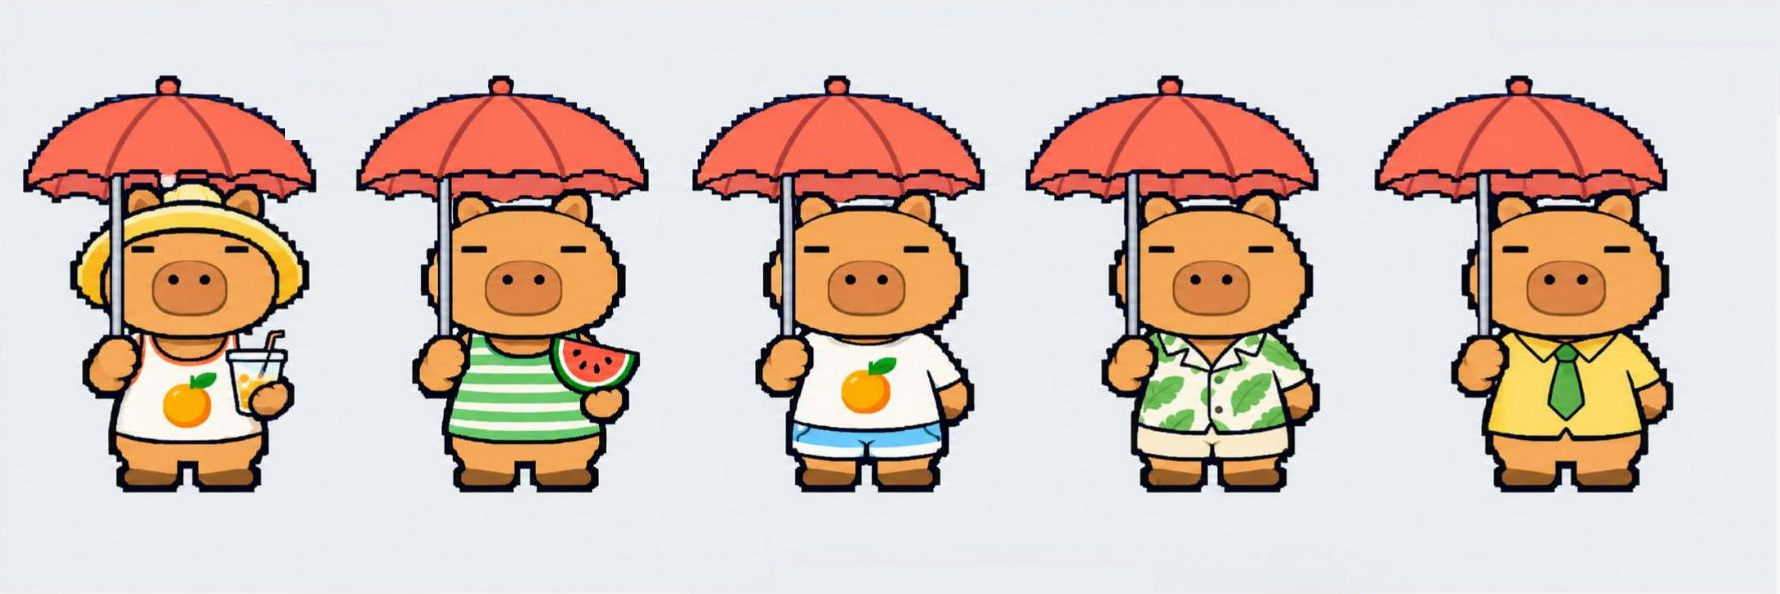
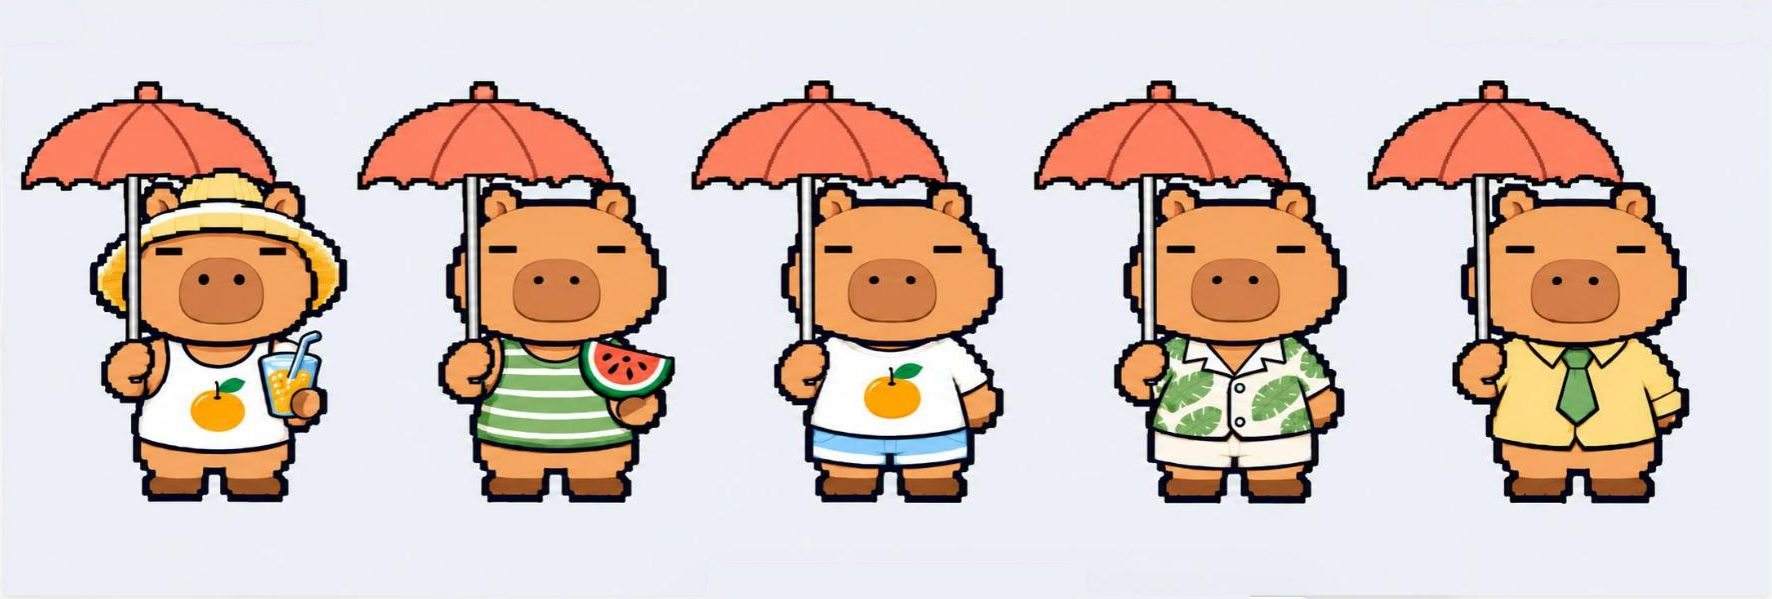
capy: m4 우산 1줄 재작업 — 막대 중심 캐노피, 얼굴·몸 서기와 동일
Claude-Session: https://claude.ai/code/session_01GWCoj9epSWVAj6uC75kAGB

diff --git a/docs/characters/log.md b/docs/characters/log.md
@@ -817,3 +817,15 @@ THIS IS A COLOUR CONVERSION ONLY. Redraw the capybara of the first reference ima
   (1) 8번 한 마리만 크게(`edit/m3-stage8-in.png`) ChatGPT로 깨끗하게 다시 — 실루엣은 그대로, 외곽선만 고르게
   → `edit/m4-stage8-clean.png`, (2) 그 머리를 맨머리 칸 전부(서기·우산)에 같은 자리로 붙임(눈 자리도 저절로 같아짐),
   (3) 모자 칸은 한 마리씩 "모자 아래 얼굴 = 이 얼굴" 편집(out2 때처럼).
+
+## 2026-11-12 01:02~ · capy · m4 우산 1줄 재작업 (주인 불통과 → 덮어쓰기)
+
+- 불통과 사유: 막대가 캐노피 왼쪽 1/3(꼭지는 가운데) + 얼굴 변형(눈 dy 0.19, 몸 +8%).
+- 새 대화 "Edit Capybara Umbrella Pose" (`…/c/6af491ba-8efc-83ec-9113-8bc7c70333f3`),
+  첨부: `capy/m4-stand-row1.png` + 우산 고양이 3장. 프롬프트: 사용자 지정 verbatim
+  ("keep every capybara EXACTLY as it is - do not redraw the faces … the coral-red canopy is centred on the
+  SHAFT, not on the head - … the canopy sits shifted toward the viewer-left exactly like the cats …"). 1차 채택.
+- 캡처: 100% 좌/우 2분할(dx=238), 툴바는 아래로 이동 → `capy/m4-umb-row1.png` 덮어쓰기 (1772×599).
+  오른쪽 샷 커서가 1번 볼에 박혀 왼쪽 샷 같은 영역으로 치환, 상단 UI 띠·툴바 잔상 배경 패치.
+- sprite_kit check: 플래그 없음 — 주둥이 82~86(서기 86~87와 같은 크기), body 2.83~3.00(서기 2.91~2.97),
+  눈 dy 0.07~0.12(서기 0.09~0.10). 막대 = 캐노피 중심, 캐노피는 고양이처럼 몸 중심에서 왼쪽으로. 주인 검사 대기.
